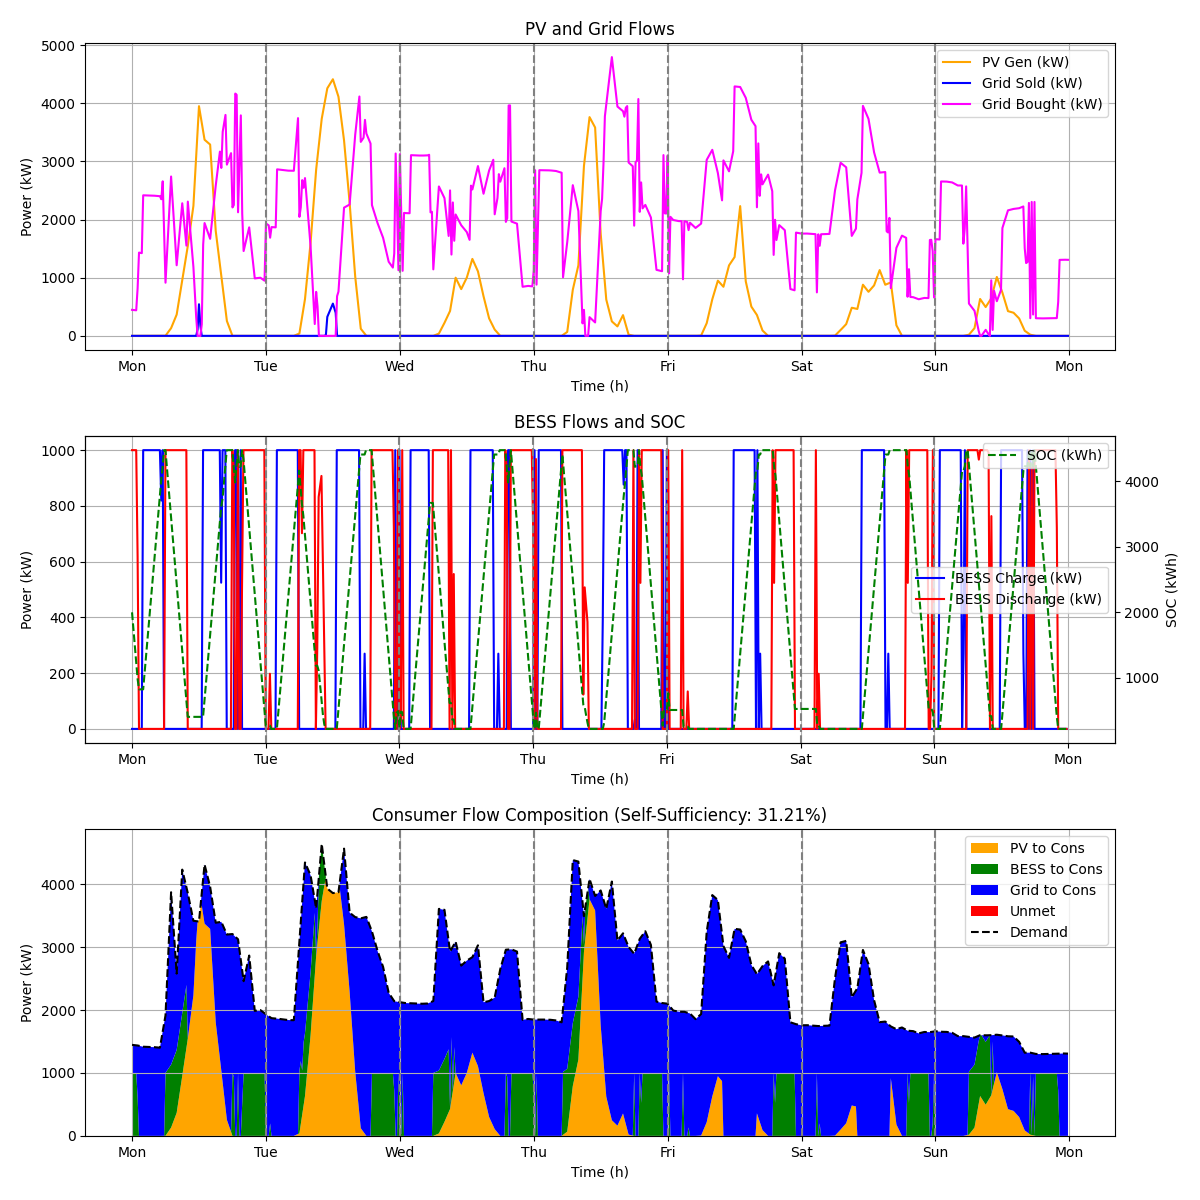
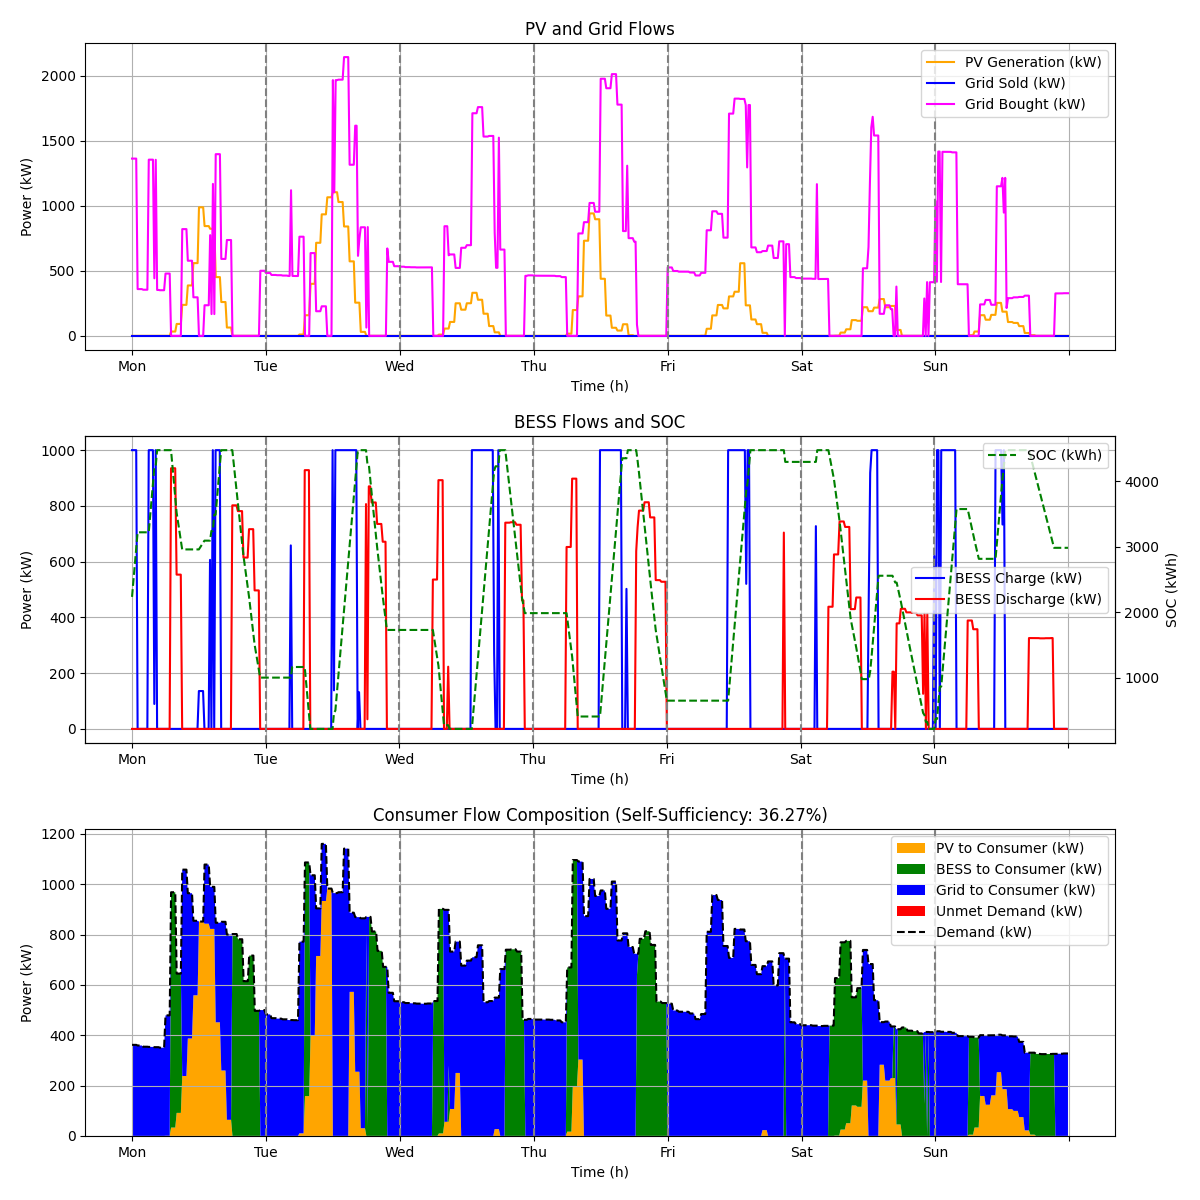
UPDATE DATA PV and CONSUMER, Reference, PV SCALING

diff --git a/Computing Files/Reference.py b/Computing Files/Reference.py
@@ -1,0 +1,72 @@
+import load_data
+import post_process
+import plots
+import numpy as np
+
+# Load input data
+data = load_data.load()
+
+# Initialize result arrays (no BESS in this case)
+P_PV_consumer_vals = np.zeros(data['n_steps'])
+P_PV_grid_vals = np.zeros(data['n_steps'])
+P_grid_consumer_vals = np.zeros(data['n_steps'])
+slack_vals = np.zeros(data['n_steps'])
+SOC_vals = np.zeros(data['n_steps'] + 1)  # remains zero
+P_PV_BESS_vals = np.zeros(data['n_steps'])  # all BESS related flows are zero
+P_BESS_consumer_vals = np.zeros(data['n_steps'])
+P_BESS_grid_vals = np.zeros(data['n_steps'])
+P_grid_BESS_vals = np.zeros(data['n_steps'])
+
+total_net_per_step = np.zeros(data['n_steps'])
+
+# Simulate without BESS
+for t in range(data['n_steps']):
+    pv_t = data['pv_power'][t]
+    demand_t = data['consumer_demand'][t]
+    buy_t = data['grid_buy_price'][t]
+    sell_t = data['grid_sell_price'][t]
+
+    used_pv = min(pv_t, demand_t)
+    surplus_pv = max(pv_t - demand_t, 0)
+    remaining_demand = max(demand_t - pv_t, 0)
+
+    P_PV_consumer_vals[t] = used_pv
+    P_PV_grid_vals[t] = surplus_pv
+    P_grid_consumer_vals[t] = remaining_demand
+
+    # Compute revenue for each time step
+    pv_cons = used_pv * (buy_t - data['lcoe_pv']) * data['delta_t']
+    pv_grid = surplus_pv * (sell_t - data['lcoe_pv']) * data['delta_t']
+    grid_cost = - remaining_demand * buy_t * data['delta_t']
+    total_net_per_step[t] = pv_cons + pv_grid + grid_cost
+
+# Construct results dictionary
+results = {
+    'P_PV_consumer_vals': P_PV_consumer_vals,
+    'P_PV_BESS_vals': P_PV_BESS_vals,
+    'P_PV_grid_vals': P_PV_grid_vals,
+    'P_BESS_consumer_vals': P_BESS_consumer_vals,
+    'P_BESS_grid_vals': P_BESS_grid_vals,
+    'P_grid_consumer_vals': P_grid_consumer_vals,
+    'P_grid_BESS_vals': P_grid_BESS_vals,
+    'SOC_vals': SOC_vals,
+    'slack_vals': slack_vals,
+    'P_BESS_charge': P_PV_BESS_vals + P_grid_BESS_vals,
+    'P_BESS_discharge': P_BESS_consumer_vals + P_BESS_grid_vals,
+    'P_grid_sold': P_PV_grid_vals + P_BESS_grid_vals,
+    'P_grid_bought': P_grid_consumer_vals + P_grid_BESS_vals
+}
+
+# Compute revenues
+revenues = post_process.compute_revenues(results, data)
+post_process.print_results(revenues, results, data)
+
+# Add suffix to distinguish plots
+data['plot_suffix'] = '_Reference'
+
+# Generate plots
+days = ['Mon', 'Tue', 'Wed', 'Thu', 'Fri', 'Sat', 'Sun']
+data['day_labels'] = [days[(data['start_weekday'] + d) % 7] for d in range(8)]
+
+plots.plot_energy_flows(results, data, revenues)
+plots.plot_financials(revenues, data)

diff --git a/Computing Files/load_data.py b/Computing Files/load_data.py
@@ -1,6 +1,6 @@
 import numpy as np
 import pandas as pd
-import os  # Add this import for relative paths
+import os
 import API_prices
 import pv_consumer_data_2024 as pv_data
 from datetime import datetime, timedelta
@@ -19,15 +19,14 @@ def sanity_check(data):
     return True
 
 def load_constants():
-    # Use relative path for portability; assume CSV in Input Data Files/ or adjust as needed
     script_dir = os.path.dirname(os.path.abspath(__file__))
-    csv_path = os.path.join(script_dir, '..', 'Input Data Files', 'Constants_Plant.csv')  # Adjust if structure changes
+    csv_path = os.path.join(script_dir, '..', 'Input Data Files', 'Constants_Plant.csv')
     constants_data = pd.read_csv(csv_path, comment='#')
     return constants_data
 
-def load():
+def load(apply_pv_scaling=True):
     constants_data = load_constants()
-    
+
     timezone_offset = int(constants_data[constants_data['Parameter'] == 'TIMEZONE_OFFSET']['Value'].iloc[0])
     bess_capacity = float(constants_data[constants_data['Parameter'] == 'BESS_Capacity']['Value'].iloc[0])
     bess_power_limit = float(constants_data[constants_data['Parameter'] == 'BESS_Power_Limit']['Value'].iloc[0])
@@ -42,16 +41,23 @@ def load():
     week_number = int(constants_data[constants_data['Parameter'] == 'WEEK_NUMBER']['Value'].iloc[0])
     bidding_zone = constants_data[constants_data['Parameter'] == 'BIDDING_ZONE']['Value'].iloc[0]
 
-    # Fetch hourly grid prices (now without arguments)
+    # Load price data (hourly)
     grid_buy_price_raw, grid_sell_price_raw = API_prices.fetch_prices()
     grid_buy_price_raw = grid_buy_price_raw[:168]
     grid_sell_price_raw = grid_sell_price_raw[:168]
     grid_buy_price = np.repeat(grid_buy_price_raw.values, 4)
     grid_sell_price = np.repeat(grid_sell_price_raw.values, 4)
 
-    # Load PV and demand for specified week
+    # Load PV and demand data
     result = pv_data.compute_pv_power(week_number)
-    pv_power = ((pv_new + pv_old)/pv_old) * result['pv_production'] * (1 / delta_t)  # convert kWh per 15 min → kW
+    pv_production = result['pv_production']
+
+    if apply_pv_scaling:
+        scaling_factor = (pv_old + pv_new) / pv_old
+        print(f"[INFO] PV production scaled by factor {scaling_factor:.3f}")
+        pv_production *= scaling_factor
+
+    pv_power = pv_production * (1 / delta_t)  # convert kWh/15min → kW
     consumer_demand = result['consumer_demand'] * (1 / delta_t)
 
     local_start_time = datetime(2024, 1, 1) + timedelta(days=(week_number - 1) * 7)

diff --git a/Computing Files/pv_consumer_data_2024.py b/Computing Files/pv_consumer_data_2024.py
@@ -14,8 +14,11 @@ def compute_pv_power(week_number):
     for col in cols:
         df[col] = pd.to_numeric(df[col], errors='coerce').fillna(0)
 
-    df_15min = df[cols].resample('15min').interpolate(method='linear')
-    df_15min['consumer_demand'] = 0.25*(df_15min['InverterYield'] + df_15min['PurchasedFromNet'] - df_15min['GridFeedIn'])
+    # Resample to 15min intervals: distribute hourly energy equally over 4 intervals
+    df_15min = df[cols].resample('15min').ffill() / 4
+
+    # Calculate consumer demand in kWh per 15min
+    df_15min['consumer_demand'] = df_15min['InverterYield'] + df_15min['PurchasedFromNet'] - df_15min['GridFeedIn']
 
     start_time = df_15min.index[0] + pd.Timedelta(days=(week_number - 1) * 7)
     end_time = start_time + pd.Timedelta(hours=167, minutes=45)

diff --git a/Computing Files/API_prices.py b/Computing Files/API_prices.py
@@ -48,7 +48,7 @@ def fetch_prices():
     buy_prices_raw = get_price_document("A44")  # Day-ahead prices
 
     # Adapt sell prices by subtracting 0.01 from buy prices (as per instructions)
-    sell_prices_raw = [max(0, p - 0.01) for p in buy_prices_raw]  # Ensure non-negative, optional
+    sell_prices_raw = [max(0, p - 0.005) for p in buy_prices_raw]  # Ensure non-negative, optional
 
     # Clip to exactly 168 hours (7 days)
     buy_prices = buy_prices_raw[:168]

diff --git a/Computing Files/plots.py b/Computing Files/plots.py
@@ -33,7 +33,7 @@ def plot_energy_flows(results, data, revenues):
         ax1.axvline(d * 24, color='gray', linestyle='--')
 
     ax2 = ax1.twinx()
-    ax2.plot(np.arange(0, 169, 0.25), results['SOC_vals'], label='SOC (kWh)', color='green', linestyle='--')
+    ax2.plot(np.linspace(0, 168, len(results['SOC_vals'])), results['SOC_vals'], label='SOC (kWh)', color='green', linestyle='--')
     ax2.set_ylabel('SOC (kWh)')
     ax2.legend(loc='upper right')
 
